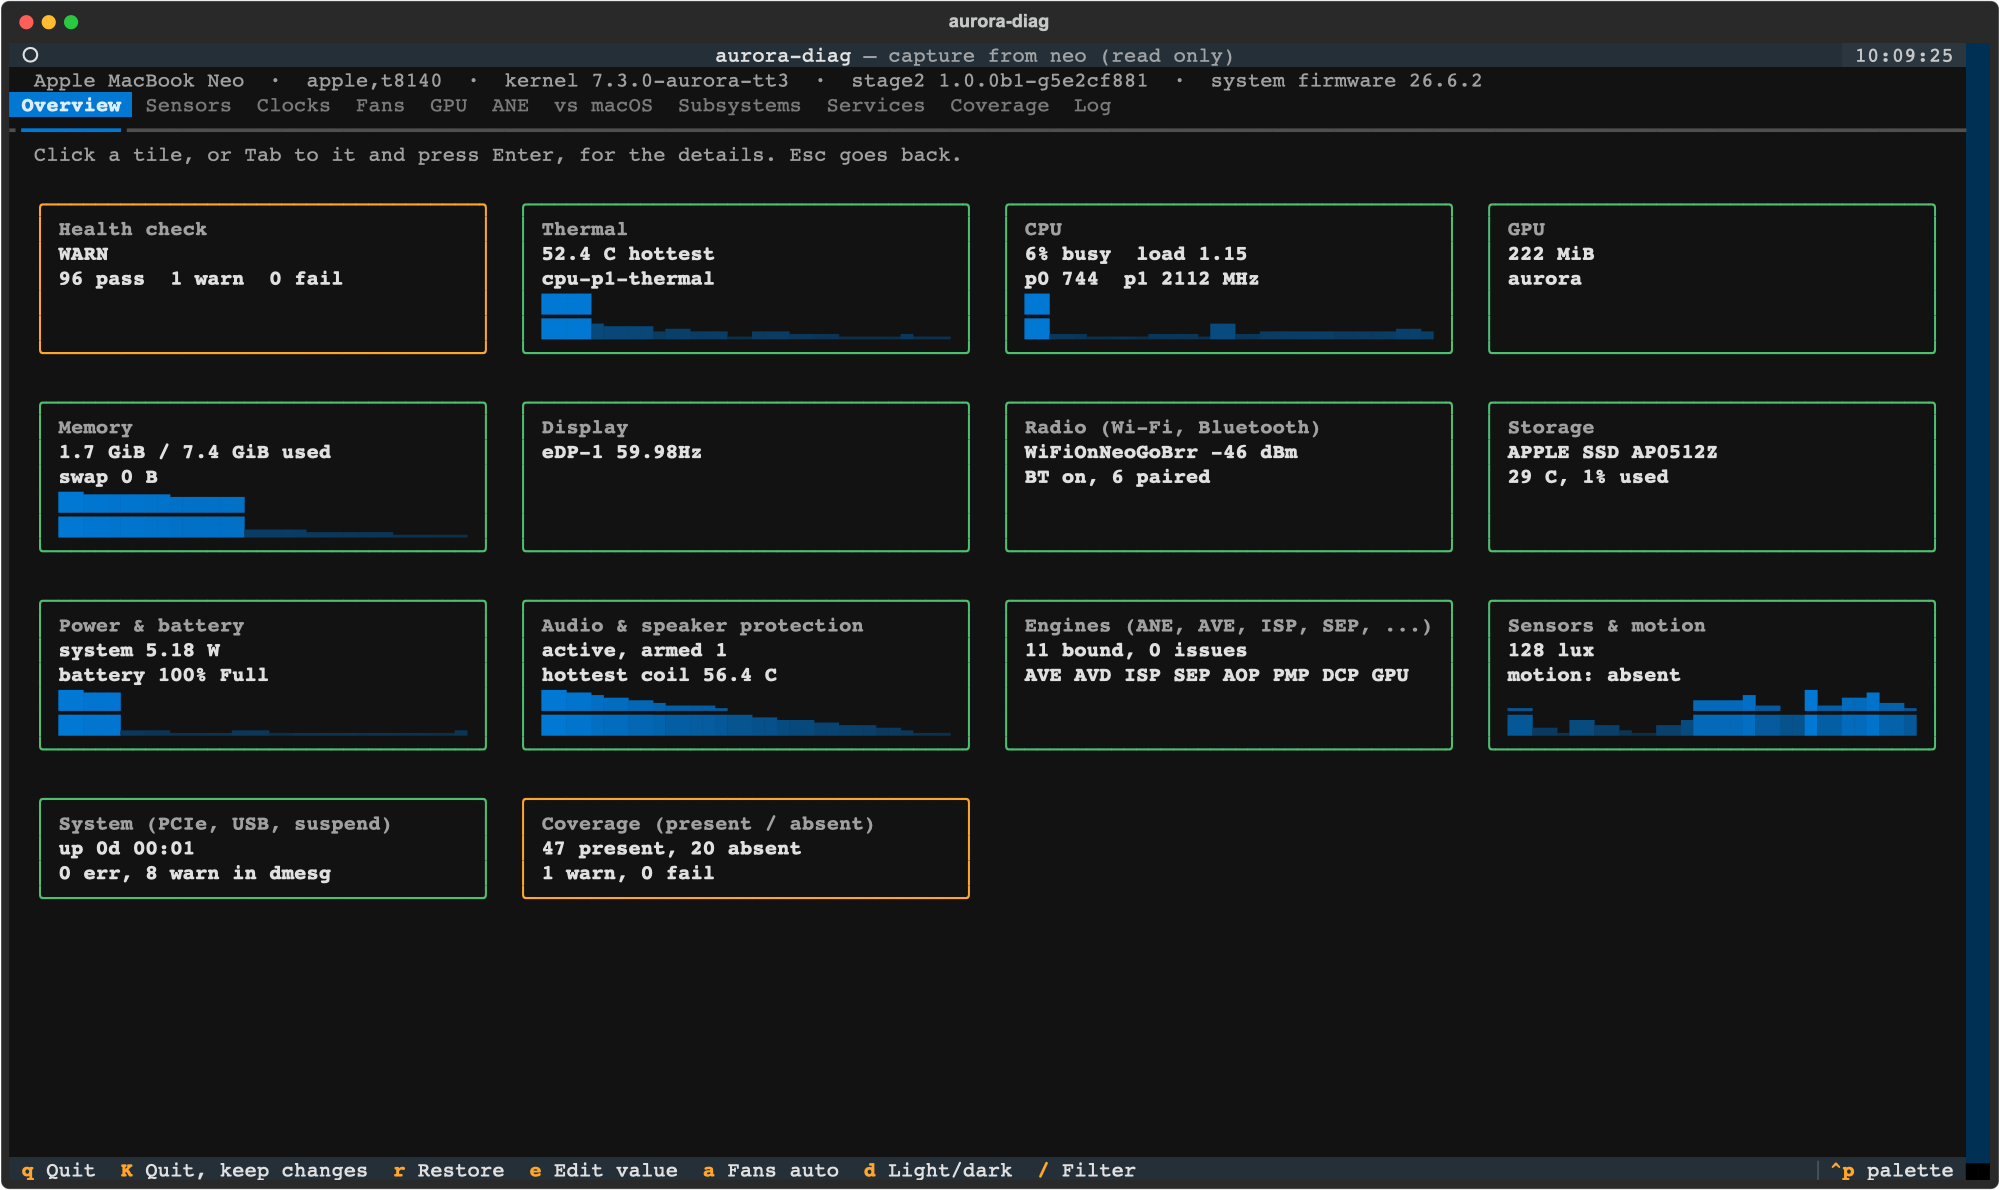
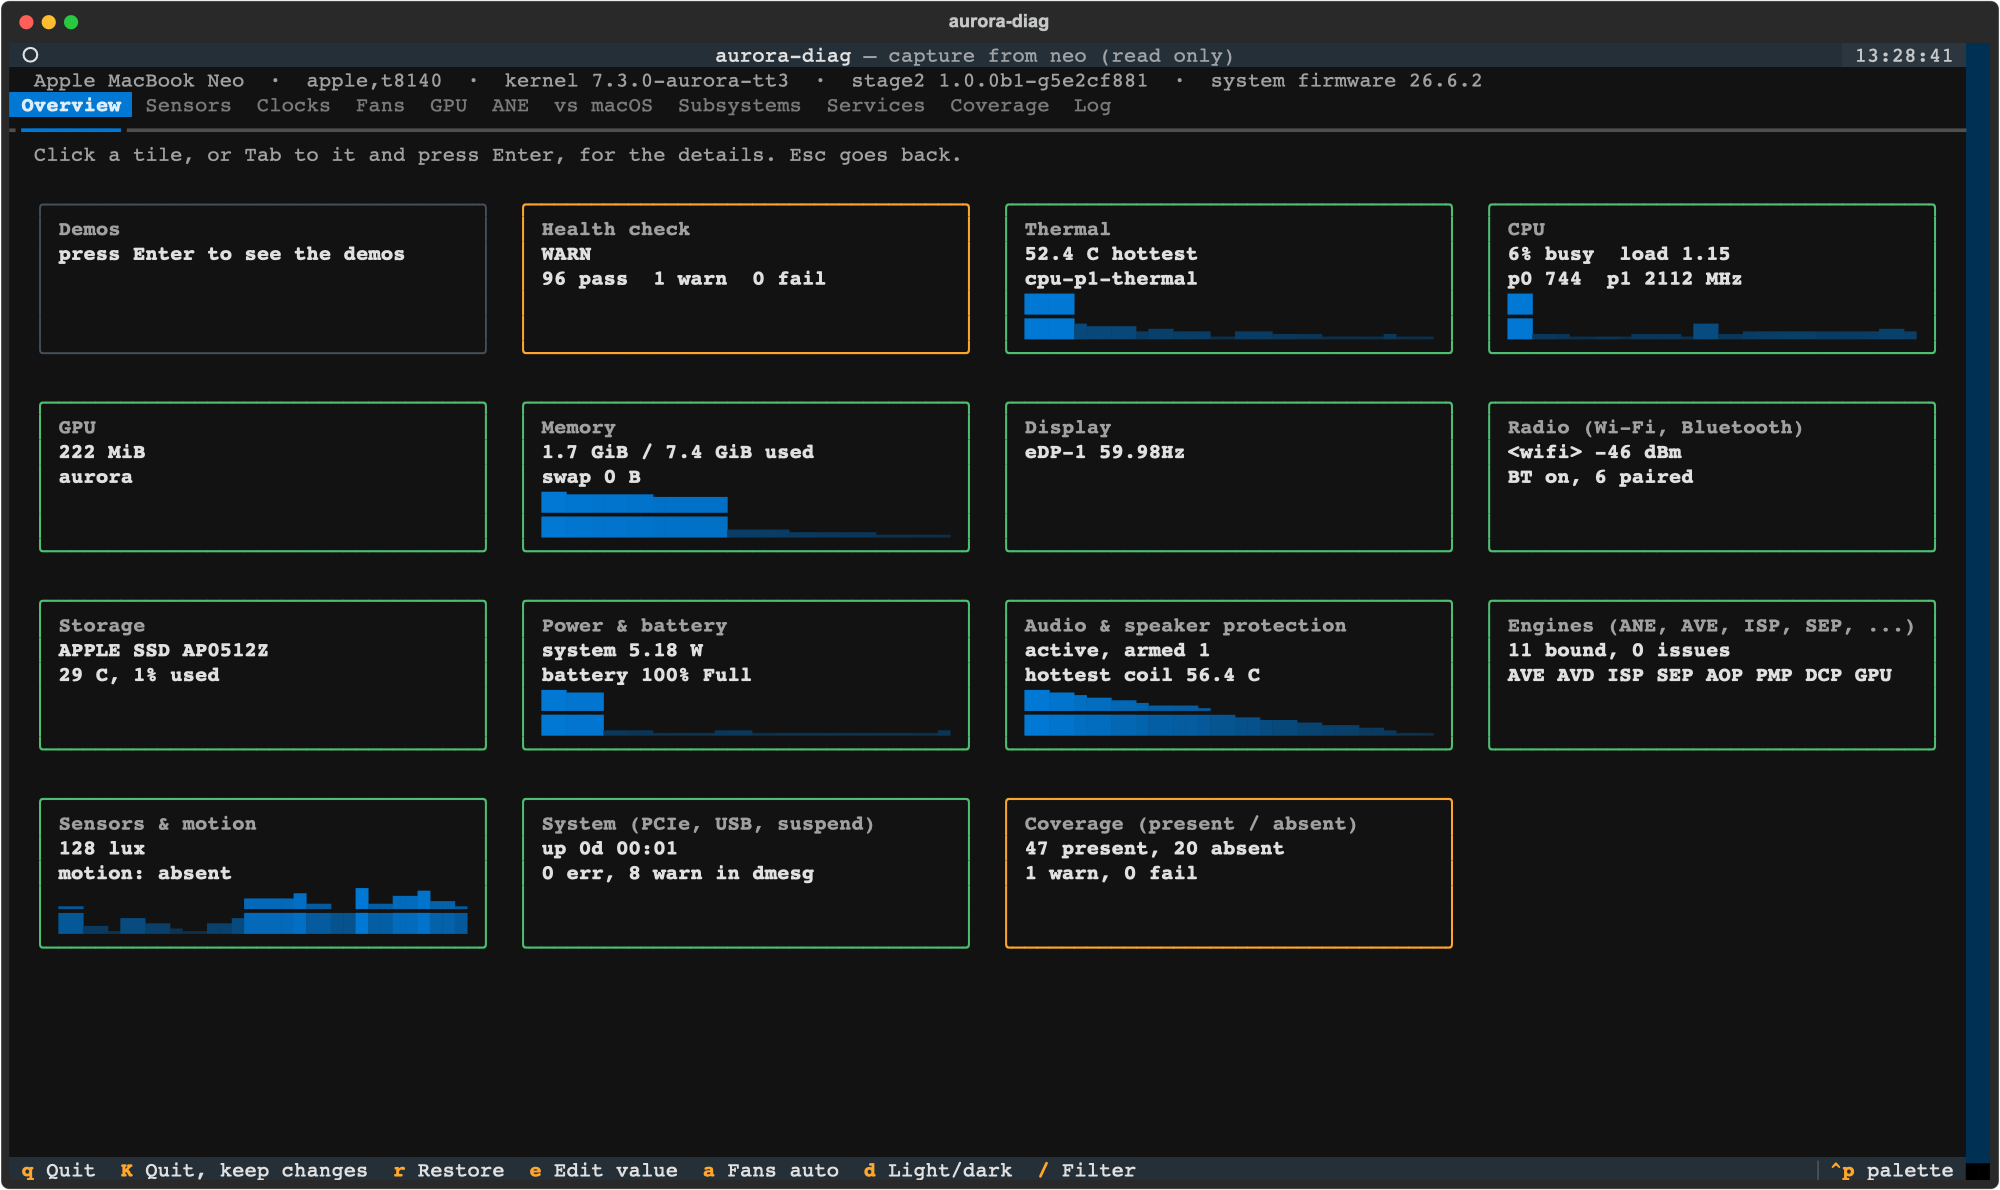
aurora-diag: screenshots redact Wi-Fi names, MAC addresses and the host name
`screenshot` now renders a redacted copy of the capture by default
(--no-redact keeps everything). The published screenshots are
re-rendered with it: no network name or lab host name in docs/.

diff --git a/aurora_diag/dashboard.py b/aurora_diag/dashboard.py
@@ -118,6 +118,48 @@ def dump(m, path):
     return path
 
 
+MAC = __import__("re").compile(r"\b[0-9a-fA-F]{2}(:[0-9a-fA-F]{2}){5}\b")
+
+
+def redact(d, host=None):
+    """A copy of a capture safe to publish: Wi-Fi network names, MAC and
+    Bluetooth addresses and the host name replaced. Screenshots use it."""
+    ssids = set()
+
+    def find(o):
+        if isinstance(o, dict):
+            if str(o.get("title") or "").startswith("Wi-Fi") and isinstance(o.get("rows"), list):
+                for r in o["rows"]:
+                    if len(r) >= 2 and r[0] == "SSID" and isinstance(r[1], str) and r[1] != "not connected":
+                        ssids.add(r[1])
+            for v in o.values():
+                find(v)
+        elif isinstance(o, list):
+            for v in o:
+                find(v)
+    find(d)
+    names = sorted(ssids, key=len, reverse=True)
+    old_host = d.get("host")
+
+    def clean(o):
+        if isinstance(o, str):
+            for n in names:
+                o = o.replace(n, "<wifi>")
+            o = MAC.sub("xx:xx:xx:xx:xx:xx", o)
+            if host and old_host and old_host != host:
+                o = o.replace(old_host, host)
+            return o
+        if isinstance(o, dict):
+            return {k: clean(v) for k, v in o.items()}
+        if isinstance(o, list):
+            return [clean(v) for v in o]
+        return o
+    out = clean(d)
+    if host:
+        out["host"] = host
+    return out
+
+
 def load(path):
     with open(path) as f:
         d = json.load(f)

diff --git a/aurora_diag/cli.py b/aurora_diag/cli.py
@@ -665,7 +665,9 @@ def cmd_screenshot(args, m):
     except ImportError as e:
         raise control.Refused("screenshots need Textual (python3-textual): %s" % e)
     cap = dashboard.load(args.snapshot)
-    if args.host:
+    if not args.no_redact:
+        cap = dashboard.redact(cap, args.host)
+    elif args.host:
         cap["host"] = args.host
     files = tui_textual.screenshots(cap, args.output, args.prefix or cap.get("host", "capture"),
                                     args.tab.split(",") if args.tab else None,
@@ -826,6 +828,7 @@ def parser():
     x.add_argument("--tab", help="comma list of tabs (overview,sensors,clocks,fans,gpu,ane,compare,subsys,services,coverage,log) "
                    "and drill-downs (show-cpu, show-health, show-audio, ...)")
     x.add_argument("--light", action="store_true", help="light theme")
+    x.add_argument("--no-redact", action="store_true", help="keep Wi-Fi names, MAC addresses and the host name (redacted by default)")
     x.add_argument("--png", action="store_true", help="also write PNGs (rsvg-convert, cairosvg, or qlmanage+sips on macOS)")
     x = sub.add_parser("tui", help="interactive dashboard for humans")
     x.add_argument("--snapshot", help="show a saved `list --json` capture instead of this machine (read only)")

diff --git a/tests/test_dashboard.py b/tests/test_dashboard.py
@@ -2,6 +2,7 @@
 """Deterministic version of scrolltest.py, including ANE and vs macOS."""
 
 import copy
+import json
 import unittest
 
 try:
@@ -78,3 +79,17 @@ class TestDashboardScroll(unittest.IsolatedAsyncioTestCase):
 
 if __name__ == "__main__":
     unittest.main()
+
+
+class TestRedact(unittest.TestCase):
+    def test_redact_ssid_mac_host(self):
+        from aurora_diag import dashboard
+        cap = {"host": "labhost", "sections": {"radio": {"headline": "MyLabNet -50 dBm", "tables": [
+            {"title": "Wi-Fi wlan0", "columns": ["field", "value"], "rows": [["SSID", "MyLabNet"], ["bss", "aa:bb:cc:dd:ee:ff"]]}]}},
+               "log": ["labhost says hi"]}
+        r = dashboard.redact(cap, "mbp")
+        text = json.dumps(r)
+        self.assertNotIn("MyLabNet", text)
+        self.assertNotIn("aa:bb:cc", text)
+        self.assertNotIn("labhost", text)
+        self.assertIn("<wifi> -50 dBm", text)
